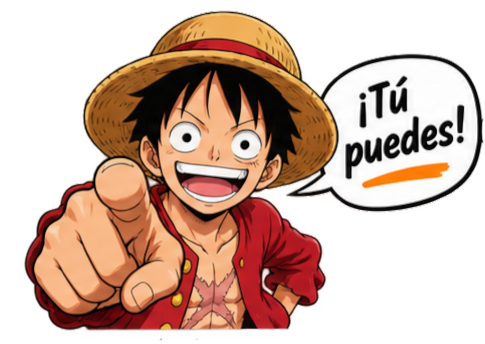
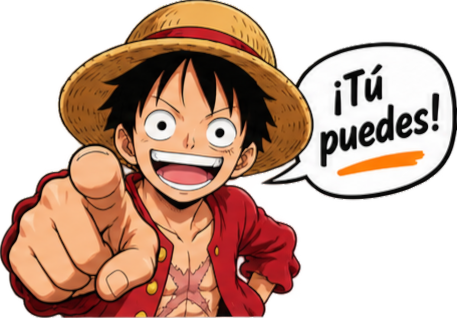
Reemplazar imágenes por versiones recortadas, compactar footer, volver a Bangers
- Se reemplazan los 12 PNG de personajes por versiones con el exceso
  de borde transparente recortado (mismos nombres de archivo, se ven
  más grandes y nítidos dentro de su recuadro).
- Footer: "7-3 · Fundamentos de la Alfabetización Digital — Escuela
  Arianys Nicole Rosa Luquis. Uso interno de la clase." pasa a
  "7-3 · FAD — ANRL · © <año>", con el año generado por JS (mismo
  patrón que index.html del sitio de charlas).
- Se prueba Titan One en los títulos y se revierte a Bangers a pedido
  del usuario (no le gustó el cambio).

diff --git a/hw/canva.html b/hw/canva.html
@@ -21,7 +21,7 @@
 <meta name="description" content="Guía de la presentación en Canva para los grupos de 7-3 — Fundamentos de la Alfabetización Digital. Cuántos slides y qué poner en cada uno.">
 <link rel="preconnect" href="https://fonts.googleapis.com">
 <link rel="preconnect" href="https://fonts.gstatic.com" crossorigin>
-<link href="https://fonts.googleapis.com/css2?family=Titan+One&family=Kalam:wght@400;700&family=Comic+Neue:wght@400;700&family=JetBrains+Mono:wght@400;500;600;700&display=swap" rel="stylesheet">
+<link href="https://fonts.googleapis.com/css2?family=Bangers&family=Kalam:wght@400;700&family=Comic+Neue:wght@400;700&family=JetBrains+Mono:wght@400;500;600;700&display=swap" rel="stylesheet">
 <style>
   :root{
     --bg:#fbf3e3; --bg-alt:#f5e6c4; --ink:#1a1a1a; --ink-soft:#5c5347; --line:#e6d6ac;
@@ -53,7 +53,7 @@
     background-image:radial-gradient(var(--line) 1.4px, transparent 1.4px);
     background-size:20px 20px;
   }
-  h1,h2,h3,h4{font-family:'Titan One','Comic Sans MS',cursive; font-weight:400; color:var(--ink); margin:0 0 .35em 0; letter-spacing:.03em;}
+  h1,h2,h3,h4{font-family:'Bangers','Comic Sans MS',cursive; font-weight:400; color:var(--ink); margin:0 0 .35em 0; letter-spacing:.03em;}
   a{color:var(--accent2);}
   .wrap{max-width:1120px; margin:0 auto; padding:0 24px;}
 
@@ -65,7 +65,7 @@
     background:#1a1a1a; border-radius:7px; padding:4px 7px; letter-spacing:.02em;
   }
   .topnav .brand .brand-short{
-    display:none; font-family:'Titan One','Comic Sans MS',cursive; font-size:1.2rem; letter-spacing:.04em; color:#1a1a1a;
+    display:none; font-family:'Bangers','Comic Sans MS',cursive; font-size:1.2rem; letter-spacing:.04em; color:#1a1a1a;
     background:var(--pop); border:2px solid var(--ink); border-radius:7px; padding:1px 8px 3px;
     transform:rotate(-4deg); line-height:1.15; box-shadow:2px 2px 0 var(--ink);
   }
@@ -156,7 +156,7 @@
   }
   .t7-cta img{width:220px; height:auto; filter:drop-shadow(4px 4px 0 var(--ink));}
   .t7-cta a.t7-cta-btn{
-    font-family:'Titan One','Comic Sans MS',cursive; font-size:1.1rem; letter-spacing:.02em; color:#fff;
+    font-family:'Bangers','Comic Sans MS',cursive; font-size:1.1rem; letter-spacing:.02em; color:#fff;
     background:var(--accent); border:2.5px solid var(--ink); border-radius:999px; padding:9px 24px;
     text-decoration:none; box-shadow:4px 4px 0 var(--ink); transition:.15s;
   }
@@ -179,7 +179,7 @@
     display:flex; gap:12px; align-items:flex-start; box-shadow:var(--shadow);
   }
   .method-list .num{
-    font-family:'Titan One','Comic Sans MS',cursive; font-weight:400; color:#fff; background:var(--accent);
+    font-family:'Bangers','Comic Sans MS',cursive; font-weight:400; color:#fff; background:var(--accent);
     border:2px solid var(--ink);
     width:28px; height:28px; border-radius:50%; display:flex; align-items:center; justify-content:center;
     flex:none; font-size:1rem;
@@ -193,7 +193,7 @@
   }
   .t7-skeleton li::before{
     counter-increment:sk; content:counter(sk); position:absolute; left:12px; top:11px;
-    font-family:'Titan One','Comic Sans MS',cursive; font-weight:400; font-size:1.05rem; color:#fff;
+    font-family:'Bangers','Comic Sans MS',cursive; font-weight:400; font-size:1.05rem; color:#fff;
     background:var(--accent2); border:2px solid var(--ink); width:28px; height:28px; border-radius:50%;
     display:flex; align-items:center; justify-content:center;
   }
@@ -218,7 +218,7 @@
   .t7-group-head:hover{background:var(--bg-alt);}
   .t7-group-head:focus-visible{outline:2px solid var(--accent); outline-offset:-2px;}
   .t7-group-headtext{display:flex; flex-direction:column; gap:6px; flex:1; min-width:0;}
-  .t7-group-head .t7-topic{font-family:'Titan One','Comic Sans MS',cursive; font-size:1.3rem; font-weight:400; letter-spacing:.02em; color:var(--gc-text); margin:0;}
+  .t7-group-head .t7-topic{font-family:'Bangers','Comic Sans MS',cursive; font-size:1.3rem; font-weight:400; letter-spacing:.02em; color:var(--gc-text); margin:0;}
   .t7-group-head .t7-names{font-family:'JetBrains Mono',monospace; font-size:.76rem; color:var(--ink-soft); margin:0;}
   @media (max-width:640px){
     .t7-group-head .t7-names{display:flex; flex-direction:column; gap:2px;}
@@ -309,7 +309,7 @@
   }
   .t7-pick:hover{transform:translate(-2px,-2px); box-shadow:6px 6px 0 var(--ink);}
   .t7-pick:active{transform:translate(0,0); box-shadow:2px 2px 0 var(--ink);}
-  .t7-pick-names{font-family:'Titan One','Comic Sans MS',cursive; font-weight:400; font-size:1.2rem; letter-spacing:.02em;}
+  .t7-pick-names{font-family:'Bangers','Comic Sans MS',cursive; font-weight:400; font-size:1.2rem; letter-spacing:.02em;}
   .t7-pick-topic{font-family:'Kalam','Comic Sans MS',cursive; font-weight:700; font-size:.76rem; opacity:.9; line-height:1.3;}
   .t7-pick.is-active{box-shadow:0 0 0 2px var(--card), 0 0 0 4.5px var(--ink);}
   body.t7-focused .t7-pick:not(.is-active){opacity:.35;}
@@ -322,7 +322,7 @@
   .t7-focus-dot{width:10px; height:10px; border-radius:2px; background:var(--accent); border:2px solid var(--ink); flex:none; transform:rotate(45deg);}
   .t7-focus-bar #t7-focus-label{color:var(--ink); font-weight:600; font-family:'Kalam','Comic Sans MS',cursive; font-weight:700;}
   .t7-focus-reset{
-    margin-left:auto; font-family:'Titan One','Comic Sans MS',cursive; font-size:.98rem; letter-spacing:.02em;
+    margin-left:auto; font-family:'Bangers','Comic Sans MS',cursive; font-size:.98rem; letter-spacing:.02em;
     color:#fff; background:var(--accent); border:2.5px solid var(--ink); border-radius:999px; padding:6px 18px;
     cursor:pointer; transition:.15s; white-space:nowrap; box-shadow:3px 3px 0 var(--ink);
   }
@@ -681,10 +681,16 @@
 
 <footer>
   <div class="wrap">
-    <p>7-3 · Fundamentos de la Alfabetización Digital — Escuela Arianys Nicole Rosa Luquis. Uso interno de la clase.</p>
+    <p>7-3 · FAD — ANRL · &copy; <span id="copyright-year">2026</span></p>
   </div>
 </footer>
 
+<script>
+  (function(){
+    var y = document.getElementById('copyright-year');
+    if(y) y.textContent = new Date().getFullYear();
+  })();
+</script>
 <script>
   (function(){
     var btn = document.getElementById('theme-toggle');
